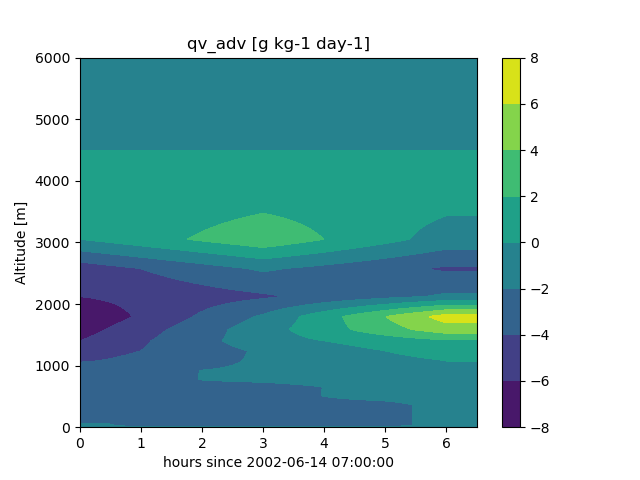
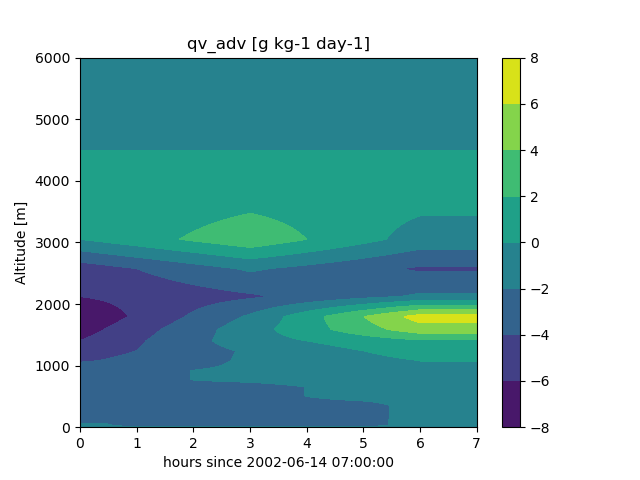
Bugfix for IHOP/REF

diff --git a/IHOP/REF/driver_SCM.py b/IHOP/REF/driver_SCM.py
@@ -48,7 +48,7 @@ if lverbose:
 levout = np.array(range(0,6001,10),dtype=np.float64) 
 
 # New temporal grid, from 11:30 UTC, 21 June 1997 to 02:00 UTC, 22 June 1997, 30-min timestep
-timeout = np.array(range(0,25200,1800),dtype=np.float64) 
+timeout = np.array(range(0,25200+1800,1800),dtype=np.float64) 
 
 # conversion
 newcase = case.convert2SCM(time=timeout,lev=levout,levtype='altitude')

diff --git a/IHOP/REF/driver_DEF.py b/IHOP/REF/driver_DEF.py
@@ -35,8 +35,8 @@ lverbose = False # print information about variables and case
 case = Case('IHOP/REF',
         lat=36.56,
         lon=-100.61,
-        startDate="200206140700",
-        endDate="200206141400",
+        startDate="20020614070000",
+        endDate="20020614140000",
         zorog=0.,
         z0=0.1)
 
